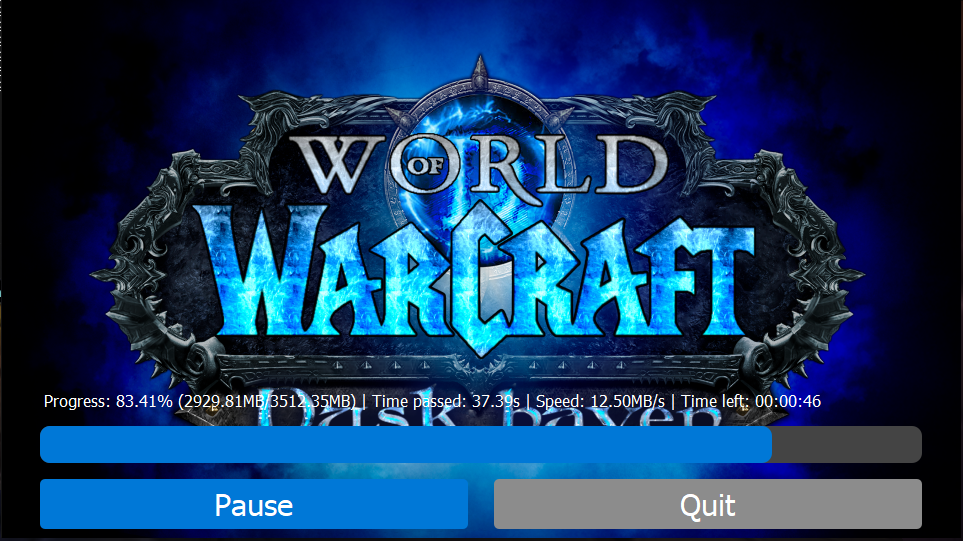
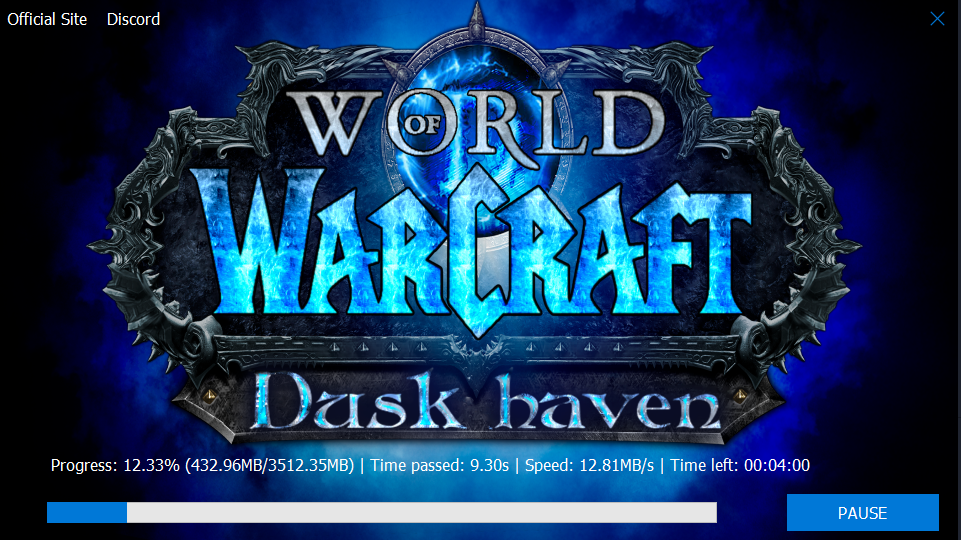
Design polish (#4)
* Pyside Version

* Design polish

* Updated readme image

diff --git a/pylauncher.py b/pylauncher.py
@@ -5,7 +5,7 @@ import subprocess
 import sys
 
 from PySide2 import QtCore
-from PySide2.QtGui import QColor, QCursor, QPalette, QPixmap, Qt
+from PySide2.QtGui import QColor, QCursor, QFont, QIcon, QPalette, QPixmap, Qt
 from PySide2.QtWidgets import (
     QApplication,
     QDesktopWidget,
@@ -16,6 +16,8 @@ from PySide2.QtWidgets import (
     QMainWindow,
     QProgressBar,
     QPushButton,
+    QSizePolicy,
+    QSpacerItem,
     QVBoxLayout,
     QWidget,
 )
@@ -35,7 +37,8 @@ class Launcher(QMainWindow):
         # Set window title and size
         self.setWindowTitle("Game Launcher")
         self.setMinimumSize(400, 300)
-        height, _ = self.adjust_size()
+        self._width, self._height = self.adjust_size()
+        self.create_background()
         self.setWindowFlags(QtCore.Qt.FramelessWindowHint)
 
         # Load configuration
@@ -47,35 +50,39 @@ class Launcher(QMainWindow):
         self.task.finished_download.connect(self.download_next_or_stop)
         self.task.start()
 
+        # Create a font and set it as the label's font
+        self.font = QFont()
+        self.font.setPointSize(12)  # Set an initial font size
+
         # Create layouts
         main_layout = QVBoxLayout()
-        progress_bar_layout = QVBoxLayout()
+        main_layout.setSpacing(0)
         button_layout = QHBoxLayout()
+        top_bar_layout = QHBoxLayout()
 
-        self.create_background()
-        progress_bar_layout.setContentsMargins(10, height * 0.4, 10, 0)
+        self.create_top_bar(top_bar_layout)
+
         button_layout.setContentsMargins(0, 10, 0, 0)
 
         # Create widgets
         self.progress_bar_label = QLabel("")
         self.progress_bar_label.setObjectName("progress_label")
+        self.progress_bar_label.setMinimumHeight(self.height * 0.05)
+        self.progress_bar_label.setFont(self.font)
 
         self.progress_bar = QProgressBar()
         self.progress_bar.setObjectName("progress")
         self.progress_bar.setRange(0, 10000)
         self.create_start_button()
 
-        self.quit_button = QPushButton("Quit")
-        self.quit_button.setObjectName("quit")
-        self.quit_button.clicked.connect(self.quit_game)
-
         # Add widgets to layouts
-        progress_bar_layout.addWidget(self.progress_bar_label)
-        progress_bar_layout.addWidget(self.progress_bar)
         self.create_installation_dialog(main_layout)
+        button_layout.addWidget(self.progress_bar)
         button_layout.addWidget(self.start_button)
-        button_layout.addWidget(self.quit_button)
-        main_layout.addLayout(progress_bar_layout)
+        spacer = QSpacerItem(0, 0, QSizePolicy.Minimum, QSizePolicy.Expanding)
+        main_layout.addLayout(top_bar_layout)
+        main_layout.addItem(spacer)
+        main_layout.addWidget(self.progress_bar_label)
         main_layout.addLayout(button_layout)
 
         # Set main layout
@@ -89,56 +96,38 @@ class Launcher(QMainWindow):
         self.setStyleSheet(
             """
             QLabel#progress_label {
-            font-size: 16px;
             color: white!important;
             margin-top: 0px;
             margin-bottom: 10px;
-            margin-left: 20px;
+            margin-left: 40px;
             margin-right: 20px;
+        }
+        QLabel#official_site_link a {
+            color: white!important;
         }
 
 
         QProgressBar#progress {
-            min-height: 32px;
-            border-radius: 10px;
             background-color: #444444;
-            margin-left: 20px;
-            margin-right: 20px;
-            color: white;
-            font-size: 30px;
+            margin-left: 40px;
+            margin-right: 40px;
         }
 
         QProgressBar#progress::chunk {
             background-color: #0078d7;
-            border-radius: 10px;
         }
 
         QPushButton#start {
-            height: 50%;
-            font-size: 30px;
             color: white;
             background-color: #0078d7;
-            border-radius: 5px;
             margin-right: 10px;
             margin-left: 30px;
+            border-radius: 0px;
+            border: 0
         }
 
         QPushButton#start:hover {
             background-color: #0063ad;
-        }
-
-        QPushButton#quit {
-            height: 50%;
-            font-size: 30px;
-            color: white;
-            background-color: #8c8c8c;
-            border-radius: 5px;
-            margin-right: 30px;
-            margin-left: 10px;
-        }
-
-        QPushButton#quit:hover {
-            background-color: #6b6b6b;
         }
 
         QLabel#installation_path_label {
@@ -171,14 +160,72 @@ class Launcher(QMainWindow):
         """
         )
 
+    def create_top_bar(self, layout):
+        self.official_site_link = QLabel(
+            "<a style='color:white; text-decoration: none;' "
+            "href='https://duskhaven.servegame.com/'>Official Site</a>"
+        )
+        self.official_site_link.setObjectName("official_site_link")
+        self.official_site_link.setCursor(QCursor(Qt.PointingHandCursor))
+        self.official_site_link.setOpenExternalLinks(True)
+        self.official_site_link.setFont(self.font)
+        layout.addWidget(self.official_site_link)
+
+        self.discord_site_link = QLabel(
+            "<a style='color:white; text-decoration: none;' "
+            "href='https://discord.gg/duskhaven'>Discord</a>"
+        )
+        self.discord_site_link.setObjectName("discord_site_link")
+        self.discord_site_link.setCursor(QCursor(Qt.PointingHandCursor))
+        self.discord_site_link.setOpenExternalLinks(True)
+        self.discord_site_link.setFont(self.font)
+        layout.addWidget(self.discord_site_link)
+
+        spacer = QSpacerItem(0, 0, QSizePolicy.Expanding, QSizePolicy.Minimum)
+        layout.addItem(spacer)
+
+        self.quit_button = QPushButton(self)
+        self.quit_button.setGeometry(
+            self.width * 0.94, self.height * 0.01, self.width * 0.02, self.width * 0.02
+        )
+        self.quit_button.setAutoFillBackground(False)
+        self.quit_button.setText("")
+        self.quit_button.setObjectName("close")
+        self.quit_button.setIcon(QIcon("images/icons8-close-button-64.png"))
+        self.quit_button.setIconSize(QtCore.QSize(self.width * 0.02, self.width * 0.02))
+        self.quit_button.setFlat(True)
+        self.quit_button.clicked.connect(self.quit_game)
+        button_style = """
+            QPushButton#close {
+                background-color: rgba(0, 0, 0, 0);
+                background-color: transparent;
+                border: none;
+            }
+            QPushButton#close:focus {
+                background-color: rgba(0, 0, 0, 0);
+                background-color: transparent;
+                border: none;
+            }
+            QPushButton#close::icon {
+                margin-right: 0px;
+                color: white;
+            }
+        """
+
+        self.quit_button.setCursor(Qt.PointingHandCursor)
+        self.quit_button.setStyleSheet(button_style)
+        layout.addWidget(self.quit_button)
+
+        layout.setSpacing(20)
+
     def create_background(self):
         self.background = QLabel(self)
-        width, height = self.size().width(), self.size().height()
-        self.background.setGeometry(0, 0, width, height)
+        self.background.setGeometry(0, 0, self.width, self.height)
         self.background.setScaledContents(True)
-        self.background.setPixmap(
-            QPixmap(os.path.join(basedir, "images", "background.png"))
-        )
+        pixmap = QPixmap(os.path.join(basedir, "images", "background.png"))
+        cropped_pixmap = pixmap.copy(0, 150, pixmap.width(), pixmap.height() - 150)
+
+        self.background.setPixmap(cropped_pixmap)
         self.background.setAlignment(Qt.AlignCenter)
         self.background.mouseMoveEvent = self.mouseMoveEvent
 
@@ -190,12 +237,16 @@ class Launcher(QMainWindow):
         if not hasattr(self, "start_button"):
             self.start_button = QPushButton("Start")
             self.start_button.setObjectName("start")
+            self.start_button.setMinimumHeight(self.height * 0.07)
+            self.start_button.setMinimumWidth(self.width * 0.2)
+            self.start_button.setCursor(QCursor(Qt.PointingHandCursor))
+            self.start_button.setFont(self.font)
         if self.check_first_time_user():
-            self.start_button.setText("Install")
+            self.start_button.setText("INSTALL")
             self.start_button.clicked.connect(self.install_game)
             return
         elif self.configuration.get("install_in_progress", False):
-            self.start_button.setText("Resume")
+            self.start_button.setText("RESUME")
             self.start_button.clicked.connect(self.install_game)
             return
         install_folder = pathlib.Path(self.configuration["installation_path"])
@@ -221,10 +272,10 @@ class Launcher(QMainWindow):
                 self.configuration["download_queue"].append(full_file)
                 self.save_configuration()
         if self.configuration["download_queue"]:
-            self.start_button.setText("Update")
+            self.start_button.setText("UPDATE")
             self.start_button.clicked.connect(self.update_game)
         else:
-            self.start_button.setText("Play")
+            self.start_button.setText("PLAY")
             self.start_button.clicked.connect(self.start_game)
 
     def create_installation_dialog(self, main_layout):
@@ -251,14 +302,14 @@ class Launcher(QMainWindow):
 
     def update_game(self):
         if self.task.paused:
-            self.start_button.setText("Pause")
+            self.start_button.setText("PAUSE")
             file = self.configuration["download_queue"][0]
             self.task.url = Config.LINKS[file]
             self.task.resume(
                 pathlib.Path(self.configuration["installation_path"]) / file
             )
         else:
-            self.start_button.setText("Resume")
+            self.start_button.setText("RESUME")
             self.task.pause()
 
     def start_game(self):
@@ -270,8 +321,12 @@ class Launcher(QMainWindow):
     def install_game(self):
         # Did not attempt to install yet and user clicked install
         dest_path = self.configuration["download_queue"][0]
+        if hasattr(self, "installation_path_text"):
+            install_folder = self.installation_path_text.text()
+        else:
+            install_folder = self.configuration["installation_path"]
         if dest_path == "wow-client.zip" and utils.check_wow_install(
-            pathlib.Path(self.installation_path_text.text())
+            pathlib.Path(install_folder)
         ):
             self.browse_button.setVisible(False)
             self.installation_path_label.setVisible(False)
@@ -291,7 +346,7 @@ class Launcher(QMainWindow):
             self.browse_button.setVisible(False)
             self.installation_path_label.setVisible(False)
             self.installation_path_text.setVisible(False)
-            self.start_button.setText("Pause")
+            self.start_button.setText("PAUSE")
             self.configuration["installation_path"] = self.installation_path_text.text()
             self.save_configuration()
 
@@ -305,12 +360,12 @@ class Launcher(QMainWindow):
             )
         # Installation in progress and user clicked Resume
         elif self.task.paused:
-            self.start_button.setText("Pause")
+            self.start_button.setText("PAUSE")
             self.task.resume(
                 pathlib.Path(self.configuration["installation_path"]) / dest_path
             )
         else:
-            self.start_button.setText("Resume")
+            self.start_button.setText("RESUME")
             self.task.pause()
 
     def quit_game(self):
@@ -332,7 +387,27 @@ class Launcher(QMainWindow):
     def resizeEvent(self, event):
         # Adjust the size and position of the launcher when the window is resized
         super().resizeEvent(event)
-        self.adjust_size()
+        self.height = event.size().height()
+        self.width = event.size().width()
+        # self.adjust_size()
+
+    @property
+    def height(self):
+        return self._height
+
+    @height.setter
+    def height(self, value):
+        self.background.setGeometry(0, 0, self.width, value)
+        self._height = value
+
+    @property
+    def width(self):
+        return self._width
+
+    @width.setter
+    def width(self, value):
+        self.background.setGeometry(0, 0, value, self.height)
+        self._width = value
 
     def check_first_time_user(self):
         # Check if this is the first time the user has run the launcher
@@ -377,7 +452,7 @@ class Launcher(QMainWindow):
             self.save_configuration()
             self.task.stop()
             self.start_button.clicked.connect(self.start_game)
-            self.start_button.setText("Play")
+            self.start_button.setText("PLAY")
 
     def load_configuration(self):
         # Load the configuration from a JSON file

diff --git a/README.md b/README.md
@@ -21,8 +21,7 @@ The newest release is available [here](https://github.com/chtheiss/duskhaven_lau
 ### Known Issues
 
 - Download speed and time tracking is a bit wonky when pausing/resuming a download
-- The Launcher cannot detect what version the customs files are if you have downloaded them manually. Hence it needs to redownload the custom files even if you have them already. For the WoW client itself with have MD5 hashes so that you do not need to redownload the original client itself
-- Styling and positioning of elements is off on many devices (depending on your resolution)
+- The Launcher cannot detect what version the customs files are if you have downloaded them manually. Hence it needs to redownload the custom files even if you have them already. For the WoW client itself with have MD5 hashes so that you do not need to redownload the original client itself.
 - The launcher currently has no functionality to check if there is a new version of the launcher available
 
 ### Build locally
